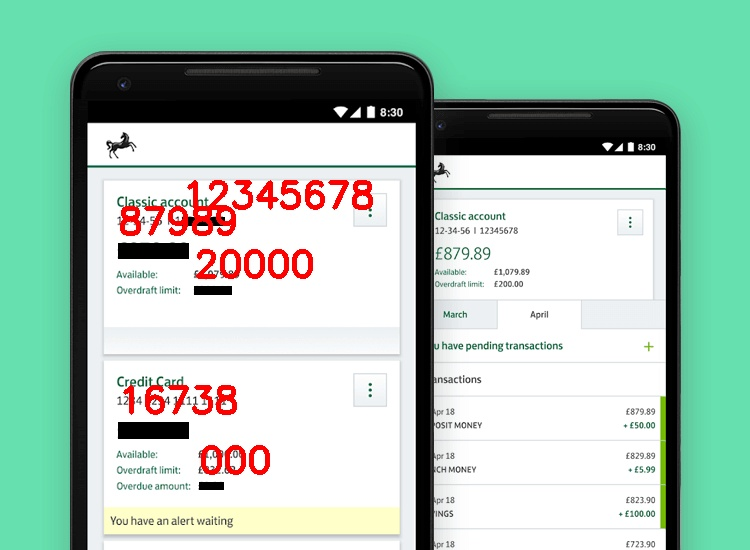
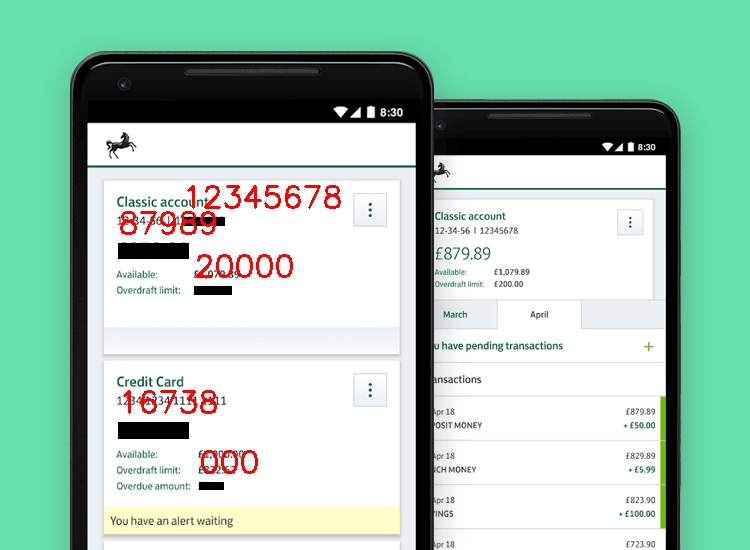
text and face pipelined, need to do whitelist

Changed region(s): [[0.1533, 0.3091, 0.5213, 0.5255], [0.1533, 0.68, 0.3373, 0.7727], [0.2453, 0.8036, 0.368, 0.8655]]

diff --git a/detect_faces.py b/detect_faces.py
@@ -149,7 +149,7 @@ for img in range(len(images)):
 
 		# filter out weak detections by ensuring the `confidence` is
 		# greater than the minimum confidence
-		if confidence > 0.8:
+		if confidence > 0.5:
 			# compute the (x, y)-coordinates of the bounding box for the
 			# object
 			box = detections[0, 0, i, 3:7] * np.array([w, h, w, h])
@@ -190,7 +190,7 @@ for img in range(len(images)):
 					print("")
 					cv2.rectangle(image, (x, y), (x + w, y + h), (0, 0, 0), -1)
 					cv2.putText(image, text, (x, y - 10), cv2.FONT_HERSHEY_SIMPLEX,
-						1.2, (0, 0, 255), 3)
+						1, (0, 0, 255), 2)
 
 
 
